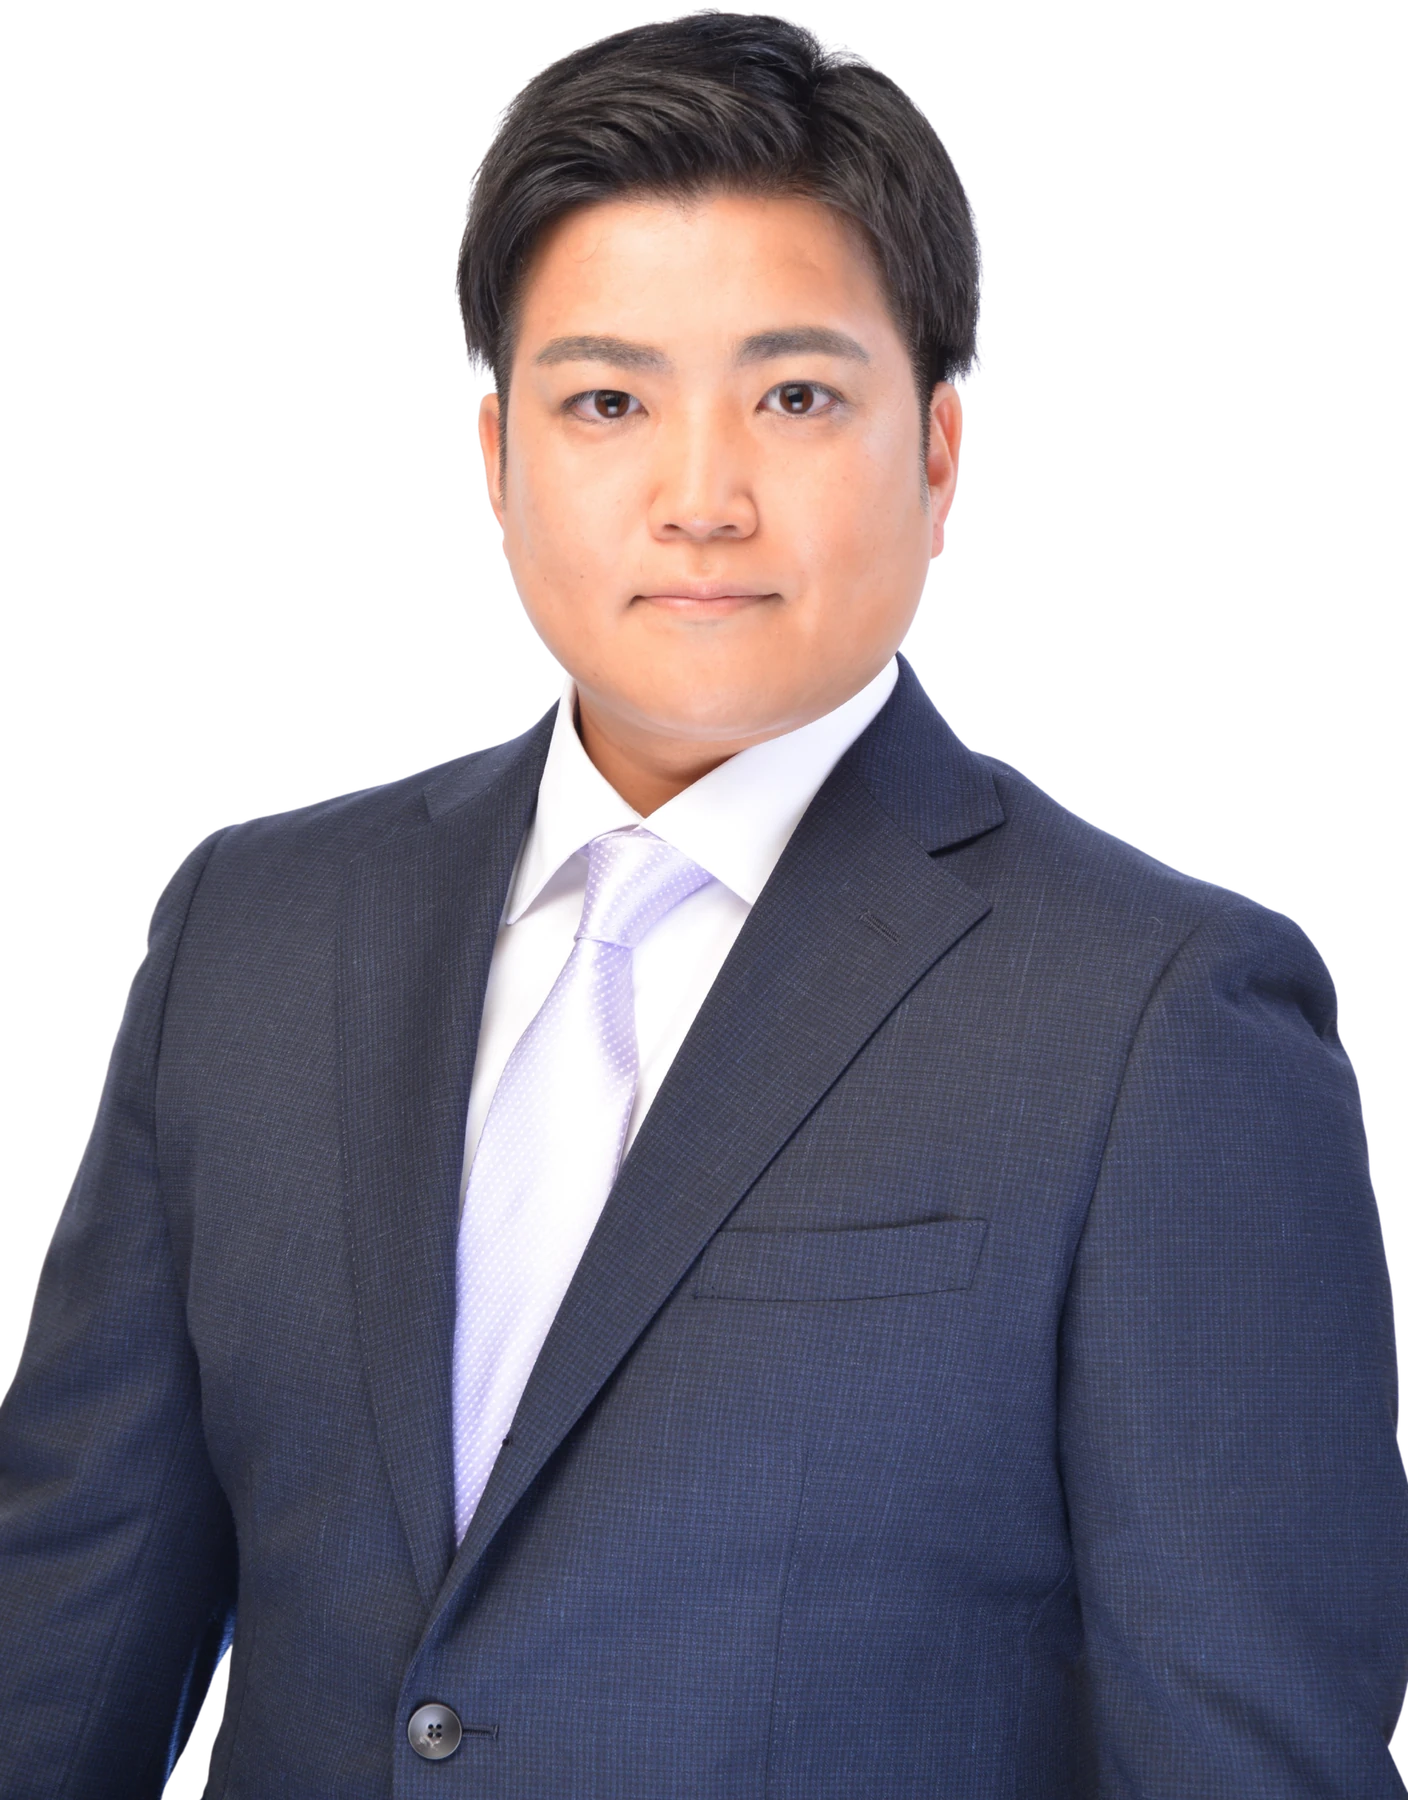
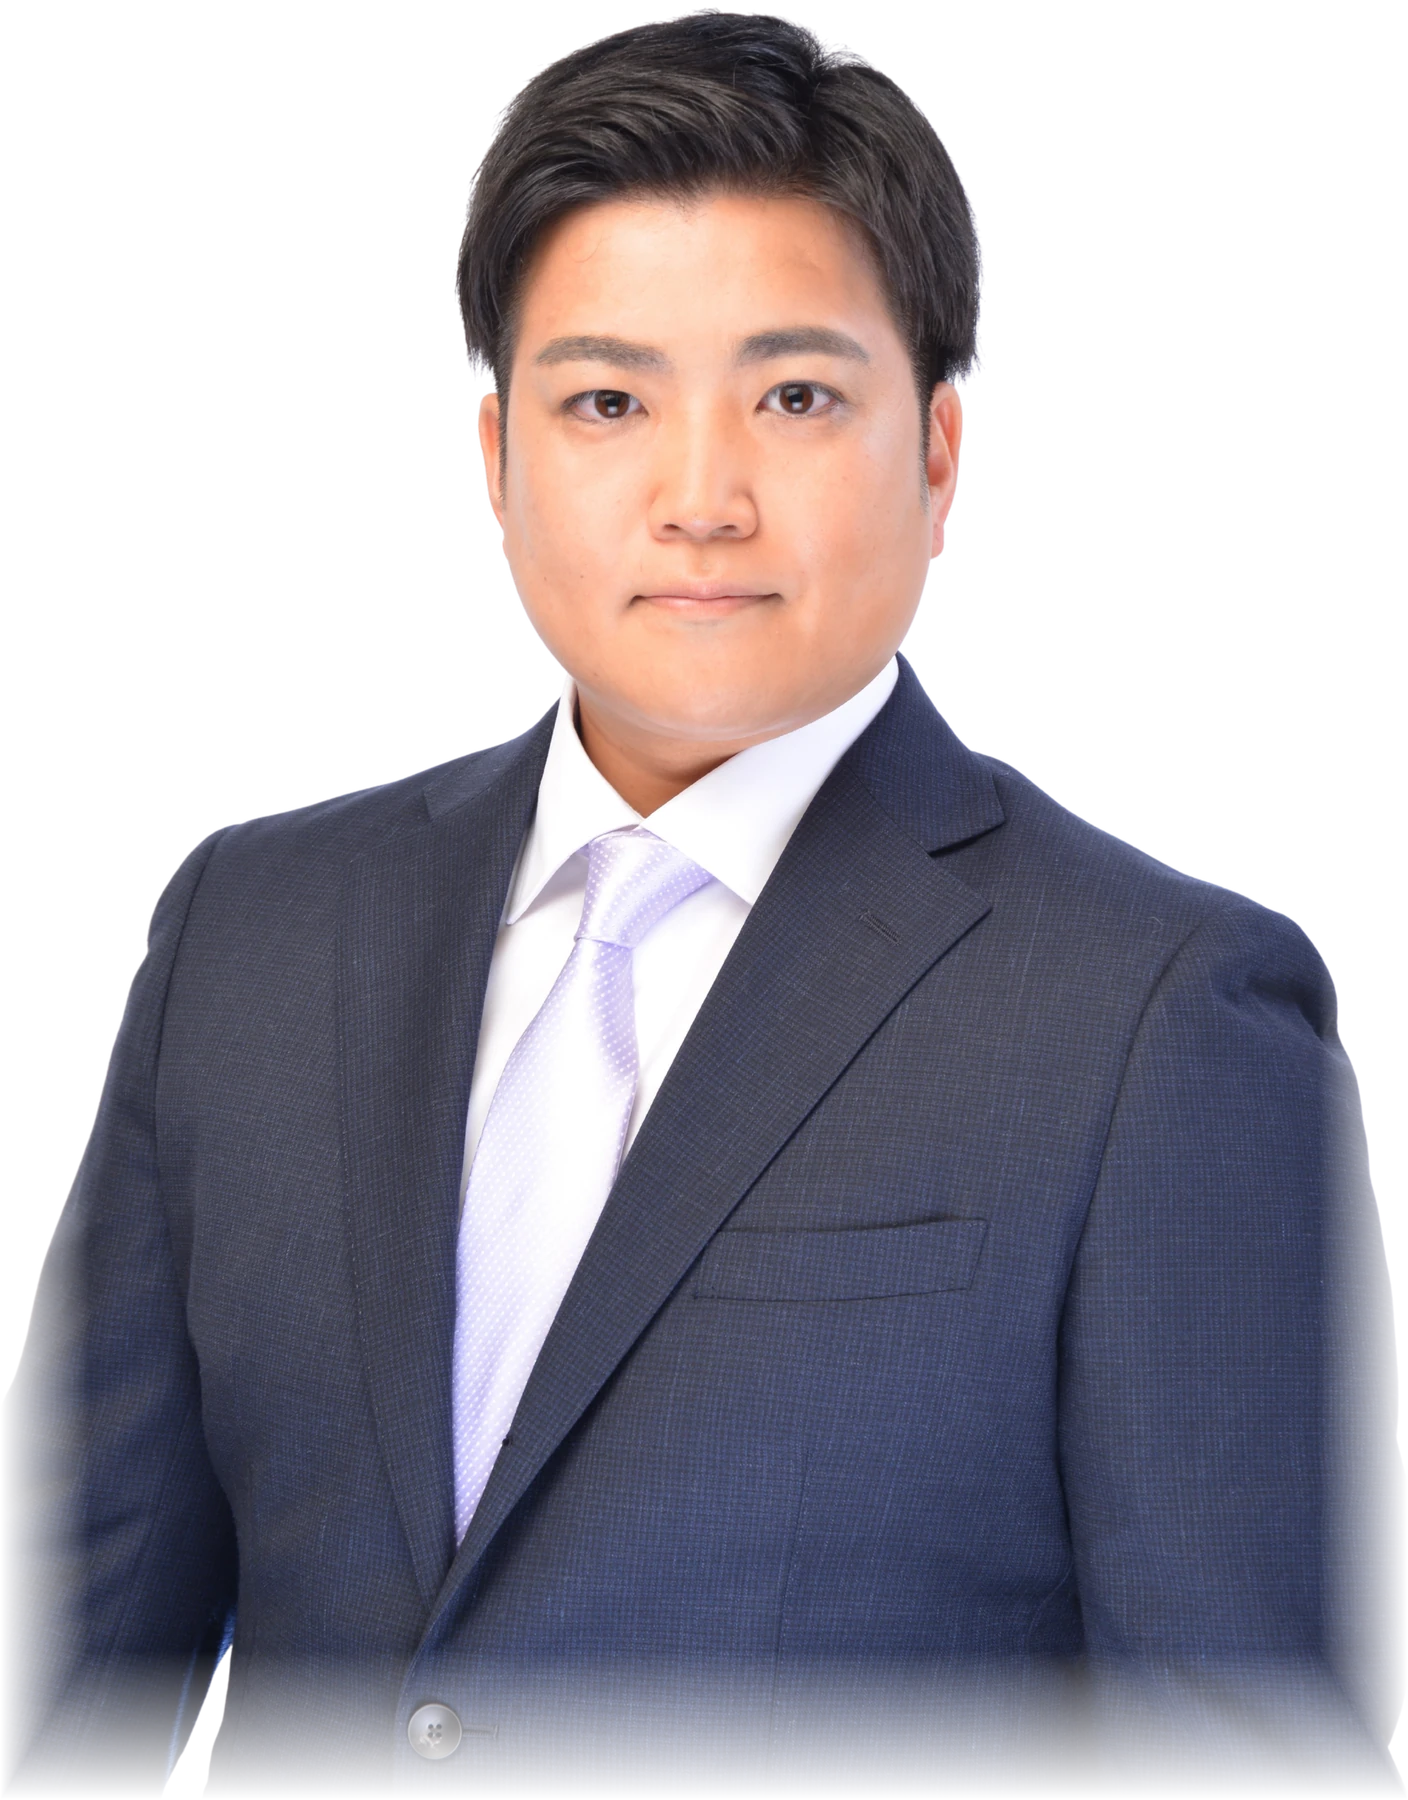
fix: ヒーロー端フェード焼き込み・「再生の道」カット・ブログRSS多段フォールバック
- ポートレートの直線クロップ端(左右・下)がドロップシャドウで枠線状に見える問題を、
  アルファフェードを画像に焼き込んで解消(CSSマスク廃止)
- ヒーロー肩書から「再生の道」を外し「中村 幸信」のみに
- ブログ: allorigins(/get)が落ちておりフォールバック無しで全滅していたため、
  corsproxy.io → allorigins(raw) → rss2json の3段フォールバック化
  (github.ioオリジンからcorsproxy.io経由でmedia:thumbnail取得できることを実地検証済み)

Changed region(s): [[0.0, 0.56, 1.0, 1.0]]

diff --git a/script.js b/script.js
@@ -237,31 +237,72 @@ document.addEventListener('DOMContentLoaded', () => {
     return div.textContent || div.innerText || '';
   }
 
+  // RSS の XML テキストを記事オブジェクトの配列に変換
+  function parseRssItems(xmlText) {
+    const xml = new DOMParser().parseFromString(xmlText, 'text/xml');
+    const items = Array.from(xml.querySelectorAll('item'));
+    if (!items.length) return null;
+    return items.map(item => {
+      // note の RSS はサムネイルを media:thumbnail のテキストとして配信する
+      // (ヘッダー画像のない記事にはタグ自体が無い)
+      const mediaThumb = item.getElementsByTagName('media:thumbnail')[0]
+        || item.getElementsByTagNameNS('http://search.yahoo.com/mrss/', 'thumbnail')[0];
+      return {
+        title:  item.querySelector('title')?.textContent?.trim() || '無題',
+        link:   item.querySelector('link')?.textContent?.trim() || '#',
+        desc:   stripHtml(item.querySelector('description')?.textContent || '').replace(/\s+/g, ' ').trim(),
+        tags:   Array.from(item.querySelectorAll('category')).map(c => c.textContent.trim()),
+        imgUrl: mediaThumb?.textContent?.trim()
+          || item.querySelector('enclosure')?.getAttribute('url')
+          || '',
+      };
+    });
+  }
+
+  // CORS プロキシは不安定なため多段フォールバックで取得する
+  async function fetchNoteItems(rssUrl) {
+    // 1)-2) 生XMLを返すプロキシ(media:thumbnail をそのまま拾える)
+    const xmlProxies = [
+      u => `https://corsproxy.io/?url=${encodeURIComponent(u)}`,
+      u => `https://api.allorigins.win/raw?url=${encodeURIComponent(u)}`,
+    ];
+    for (const proxy of xmlProxies) {
+      try {
+        const res = await fetch(proxy(rssUrl));
+        if (!res.ok) continue;
+        const parsed = parseRssItems(await res.text());
+        if (parsed) return parsed;
+      } catch { /* 次のプロキシへ */ }
+    }
+    // 3) rss2json(JSON変換。media:thumbnail は落ちるので本文中の画像で代替)
+    try {
+      const res = await fetch(`https://api.rss2json.com/v1/api.json?rss_url=${encodeURIComponent(rssUrl)}`);
+      if (res.ok) {
+        const data = await res.json();
+        if (data.status === 'ok' && data.items?.length) {
+          return data.items.map(it => ({
+            title:  it.title || '無題',
+            link:   it.link || '#',
+            desc:   stripHtml(it.description || '').replace(/\s+/g, ' ').trim(),
+            tags:   it.categories || [],
+            imgUrl: it.thumbnail
+              || it.enclosure?.link
+              || ((it.content || it.description || '').match(/<img[^>]+src="([^"]+)"/) || [])[1]
+              || '',
+          }));
+        }
+      }
+    } catch { /* フォールバック尽きた */ }
+    return null;
+  }
+
   async function loadNoteArticles() {
     const grid = document.getElementById('blogGrid');
     if (!grid) return;
-    const proxyUrl = `https://api.allorigins.win/get?url=${encodeURIComponent(`https://note.com/${NOTE_USERNAME}/rss`)}`;
-    try {
-      const res = await fetch(proxyUrl);
-      if (!res.ok) throw new Error('proxy');
-      const data = await res.json();
-      const xml  = new DOMParser().parseFromString(data.contents, 'text/xml');
-      const items = Array.from(xml.querySelectorAll('item'));
-      if (!items.length) throw new Error('empty');
-
-      grid.innerHTML = items.slice(0, 6).map((item, i) => {
-        const title  = item.querySelector('title')?.textContent?.trim() || '無題';
-        const link   = item.querySelector('link')?.textContent?.trim() || '#';
-        const desc   = stripHtml(item.querySelector('description')?.textContent || '').replace(/\s+/g, ' ').trim();
-        const tags   = Array.from(item.querySelectorAll('category')).map(c => c.textContent.trim());
-        // note の RSS はサムネイルを media:thumbnail のテキストとして配信する
-        // (ヘッダー画像のない記事にはタグ自体が無い)
-        const mediaThumb = item.getElementsByTagName('media:thumbnail')[0]
-          || item.getElementsByTagNameNS('http://search.yahoo.com/mrss/', 'thumbnail')[0];
-        const imgUrl = mediaThumb?.textContent?.trim()
-          || item.querySelector('enclosure')?.getAttribute('url')
-          || '';
-        const cat    = tagsToCategory(tags);
+    const articles = await fetchNoteItems(`https://note.com/${NOTE_USERNAME}/rss`);
+    if (articles) {
+      grid.innerHTML = articles.slice(0, 6).map(({ title, link, desc, tags, imgUrl }, i) => {
+        const cat = tagsToCategory(tags);
 
         return `
           <div class="works__card reveal" data-category="${cat}">
@@ -285,7 +326,7 @@ document.addEventListener('DOMContentLoaded', () => {
       grid.querySelectorAll('.works__card').forEach(el => revealObserver.observe(el));
       applyBlogFilter(currentBlogFilter);
 
-    } catch {
+    } else {
       grid.innerHTML = `<p class="works__note-fallback">記事の読み込みができませんでした。
         <a href="https://note.com/${NOTE_USERNAME}" target="_blank" rel="noopener noreferrer">noteで読む →</a></p>`;
     }
@@ -294,8 +335,8 @@ document.addEventListener('DOMContentLoaded', () => {
   loadNoteArticles();
 
   /* -------- Forms (お問い合わせ / ボランティア) -------- */
-  // contact.php は本番(さくらサーバー)でのみ動作する。
-  // テスト環境(GitHub Pages)では送信できないため、失敗時は正直にエラーを表示する。
+  // 送信先は本番(さくら)の contact.php への絶対URL。GitHub Pages からの
+  // クロスオリジン送信は、さくら側の contact.php が CORS 対応版である必要がある。
   const setupForm = (formId, messageEl, successText) => {
     const form = document.getElementById(formId);
     if (!form) return;

diff --git a/style.css b/style.css
@@ -413,9 +413,8 @@ input, textarea, select { font-family: inherit; }
   max-width: 100%;
   object-fit: contain;
   object-position: bottom center;
+  /* 端のフェードは画像のアルファに焼き込み済み(CSSマスク不要) */
   filter: drop-shadow(0 24px 60px rgba(20,0,60,.45));
-  -webkit-mask-image: linear-gradient(to bottom, #000 88%, transparent 100%);
-  mask-image: linear-gradient(to bottom, #000 88%, transparent 100%);
 }
 
 .hero__figure-caption {

diff --git a/index.html b/index.html
@@ -70,7 +70,7 @@
         <figure class="hero__figure">
           <img src="assets/img/nakamura_portrait_cutout.webp" alt="中村幸信のプロフィール写真" class="hero__figure-img" />
           <figcaption class="hero__figure-caption">
-            <p class="hero__figure-caption-text">再生の道　<span class="hero__card-name">中村 幸信</span></p>
+            <p class="hero__figure-caption-text"><span class="hero__card-name">中村 幸信</span></p>
           </figcaption>
         </figure>
       </div>